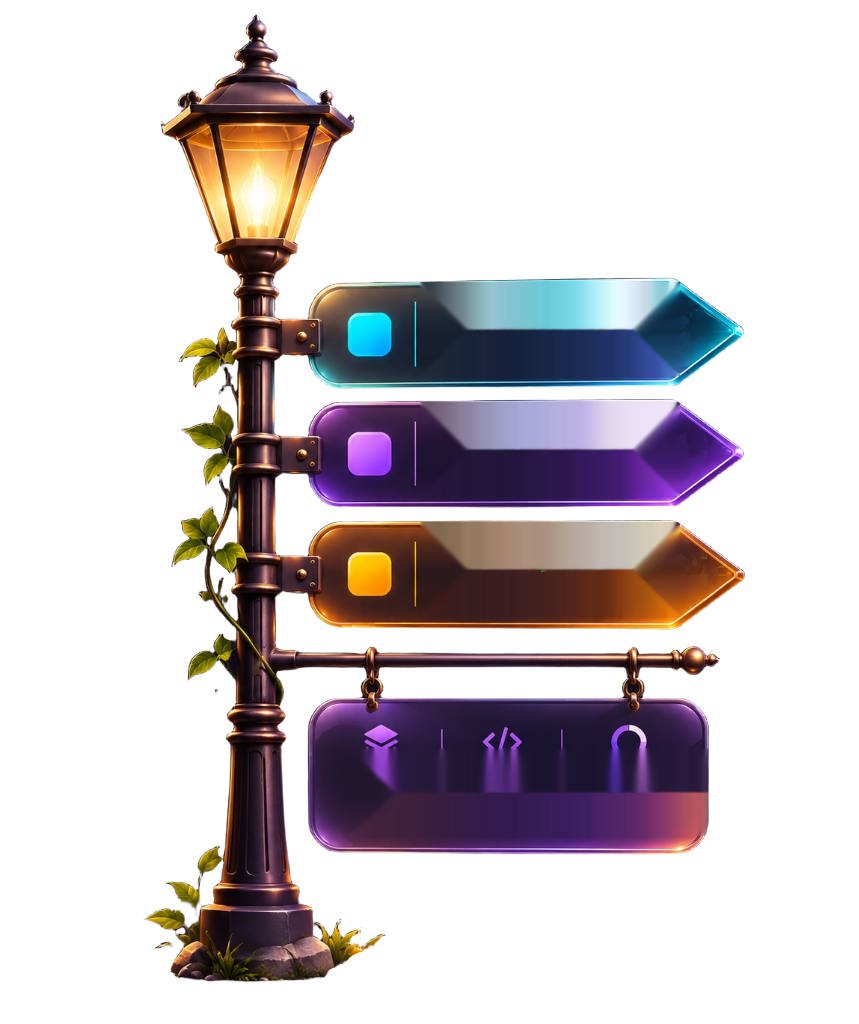
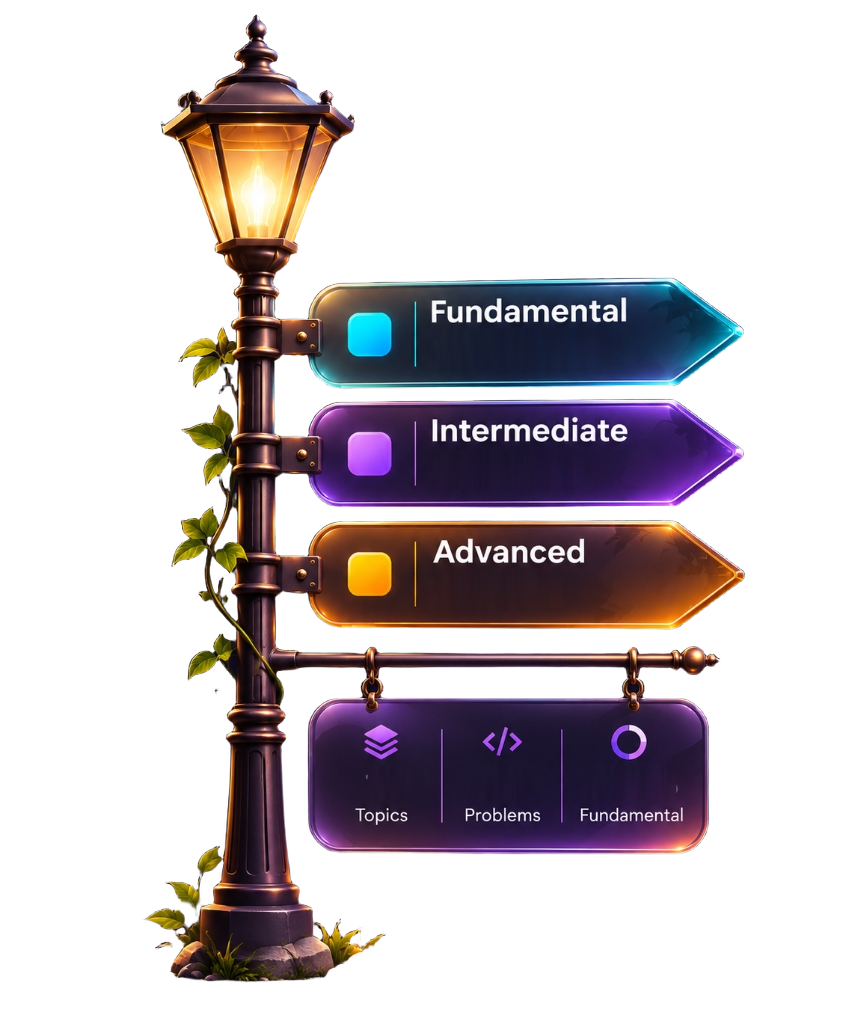
fix(leetcode): eliminate inpaint smudges and text doubling with lossless clean lamp post and precise number overlays

Changed region(s): [[0.4843, 0.25, 0.787, 0.5938], [0.4237, 0.7188, 0.8475, 0.8125]]

diff --git a/src/components/topic-breakdown.tsx b/src/components/topic-breakdown.tsx
@@ -884,116 +884,100 @@ export function TopicBreakdown({ topics: propTopics = [] }: TopicBreakdownProps)
             {/* =================================================================== */}
             {/* INTERACTIVE SIGNPOST ARROWS (Fundamental, Intermediate, Advanced)    */}
             {/* =================================================================== */}
-            {/* Arrow 1: Fundamental */}
-            <div
+            {/* Arrow 1: Fundamental Click Area */}
+            <button
+              type="button"
               onClick={() => handlePillClick("fundamental")}
               title="Filter by Fundamental topics"
-              className={`absolute left-[36%] top-[27.3%] w-[52%] h-[10.2%] rounded-2xl cursor-pointer transition-all duration-200 hover:brightness-125 z-20 ${
+              aria-label="Filter by Fundamental topics"
+              className={`absolute left-[36%] top-[27.3%] w-[52%] h-[10.2%] rounded-2xl cursor-pointer transition-all duration-200 hover:brightness-125 z-20 bg-transparent border-0 outline-none ${
                 activeFilter === "fundamental"
                   ? "ring-2 ring-cyan-400 shadow-[0_0_20px_rgba(34,211,238,0.6)]"
                   : ""
               }`}
-            >
-              {!isMockupStats && (
-                <div className="absolute left-[26%] top-0 bottom-0 flex flex-col justify-center select-none pointer-events-none">
-                  <div className="text-[13px] sm:text-[14px] font-bold text-white tracking-tight leading-tight drop-shadow-[0_1px_3px_rgba(0,0,0,0.9)]">
-                    Fundamental
-                  </div>
-                  <div className="text-[12px] sm:text-[13px] font-bold text-white leading-tight mt-0.5 flex items-center gap-1 drop-shadow-[0_1px_3px_rgba(0,0,0,0.9)]">
-                    <span>{stats.fundamentalCount}</span>
-                    <span className="text-cyan-400 font-semibold drop-shadow-[0_0_8px_rgba(34,211,238,0.8)]">
-                      ({stats.fundamentalPct}%)
-                    </span>
-                  </div>
-                </div>
-              )}
-            </div>
+            />
 
-            {/* Arrow 2: Intermediate */}
-            <div
+            {/* Arrow 2: Intermediate Click Area */}
+            <button
+              type="button"
               onClick={() => handlePillClick("intermediate")}
               title="Filter by Intermediate topics"
-              className={`absolute left-[36%] top-[39.0%] w-[52%] h-[10.2%] rounded-2xl cursor-pointer transition-all duration-200 hover:brightness-125 z-20 ${
+              aria-label="Filter by Intermediate topics"
+              className={`absolute left-[36%] top-[39.0%] w-[52%] h-[10.2%] rounded-2xl cursor-pointer transition-all duration-200 hover:brightness-125 z-20 bg-transparent border-0 outline-none ${
                 activeFilter === "intermediate"
                   ? "ring-2 ring-purple-400 shadow-[0_0_20px_rgba(192,132,252,0.6)]"
                   : ""
               }`}
-            >
-              {!isMockupStats && (
-                <div className="absolute left-[26%] top-0 bottom-0 flex flex-col justify-center select-none pointer-events-none">
-                  <div className="text-[13px] sm:text-[14px] font-bold text-white tracking-tight leading-tight drop-shadow-[0_1px_3px_rgba(0,0,0,0.9)]">
-                    Intermediate
-                  </div>
-                  <div className="text-[12px] sm:text-[13px] font-bold text-white leading-tight mt-0.5 flex items-center gap-1 drop-shadow-[0_1px_3px_rgba(0,0,0,0.9)]">
-                    <span>{stats.intermediateCount}</span>
-                    <span className="text-purple-400 font-semibold drop-shadow-[0_0_8px_rgba(192,132,252,0.8)]">
-                      ({stats.intermediatePct}%)
-                    </span>
-                  </div>
-                </div>
-              )}
-            </div>
+            />
 
-            {/* Arrow 3: Advanced */}
-            <div
+            {/* Arrow 3: Advanced Click Area */}
+            <button
+              type="button"
               onClick={() => handlePillClick("advanced")}
               title="Filter by Advanced topics"
-              className={`absolute left-[36%] top-[51.0%] w-[52%] h-[10.2%] rounded-2xl cursor-pointer transition-all duration-200 hover:brightness-125 z-20 ${
+              aria-label="Filter by Advanced topics"
+              className={`absolute left-[36%] top-[51.0%] w-[52%] h-[10.2%] rounded-2xl cursor-pointer transition-all duration-200 hover:brightness-125 z-20 bg-transparent border-0 outline-none ${
                 activeFilter === "advanced"
                   ? "ring-2 ring-amber-400 shadow-[0_0_20px_rgba(251,191,36,0.6)]"
                   : ""
               }`}
-            >
-              {!isMockupStats && (
-                <div className="absolute left-[26%] top-0 bottom-0 flex flex-col justify-center select-none pointer-events-none">
-                  <div className="text-[13px] sm:text-[14px] font-bold text-white tracking-tight leading-tight drop-shadow-[0_1px_3px_rgba(0,0,0,0.9)]">
-                    Advanced
-                  </div>
-                  <div className="text-[12px] sm:text-[13px] font-bold text-white leading-tight mt-0.5 flex items-center gap-1 drop-shadow-[0_1px_3px_rgba(0,0,0,0.9)]">
-                    <span>{stats.advancedCount}</span>
-                    <span className="text-amber-400 font-semibold drop-shadow-[0_0_8px_rgba(251,191,36,0.8)]">
-                      ({stats.advancedPct}%)
-                    </span>
-                  </div>
-                </div>
-              )}
-            </div>
+            />
 
-            {/* =================================================================== */}
-            {/* HANGING GLASS PLAQUE (3 Stats: Topics, Problems, Fundamental %)     */}
-            {/* =================================================================== */}
+            {/* Dynamic Real-Time Statistics Overlays (Displayed cleanly over clean number strips) */}
             {!isMockupStats && (
-              <div className="absolute left-[36.1%] top-[66.9%] w-[53.5%] h-[15.6%] flex items-center justify-around pointer-events-none z-20">
-                {/* Col 1: Topics */}
-                <div className="flex-1 flex flex-col items-center justify-center pt-5">
-                  <div className="text-[14px] font-black text-white font-mono leading-none drop-shadow-[0_1px_3px_rgba(0,0,0,0.9)]">
-                    {stats.totalTopicsCount}
-                  </div>
-                  <div className="text-[10px] font-semibold text-slate-300 leading-tight mt-1">
-                    Topics
-                  </div>
+              <>
+                {/* Arrow 1 Numbers: Count + Percentage */}
+                <div className="absolute left-[51.0%] top-[33.2%] flex items-baseline gap-1 select-none pointer-events-none z-20">
+                  <span className="text-[12px] sm:text-[13px] md:text-[14px] font-bold text-white leading-none drop-shadow-[0_1px_3px_rgba(0,0,0,0.9)]">
+                    {stats.fundamentalCount}
+                  </span>
+                  <span className="text-[11px] sm:text-[12px] md:text-[13px] font-semibold text-cyan-400 leading-none drop-shadow-[0_0_8px_rgba(34,211,238,0.8)]">
+                    ({stats.fundamentalPct}%)
+                  </span>
                 </div>
 
-                {/* Col 2: Problems */}
-                <div className="flex-1 flex flex-col items-center justify-center pt-5">
-                  <div className="text-[14px] font-black text-white font-mono leading-none drop-shadow-[0_1px_3px_rgba(0,0,0,0.9)]">
+                {/* Arrow 2 Numbers: Count + Percentage */}
+                <div className="absolute left-[51.0%] top-[45.0%] flex items-baseline gap-1 select-none pointer-events-none z-20">
+                  <span className="text-[12px] sm:text-[13px] md:text-[14px] font-bold text-white leading-none drop-shadow-[0_1px_3px_rgba(0,0,0,0.9)]">
+                    {stats.intermediateCount}
+                  </span>
+                  <span className="text-[11px] sm:text-[12px] md:text-[13px] font-semibold text-purple-400 leading-none drop-shadow-[0_0_8px_rgba(192,132,252,0.8)]">
+                    ({stats.intermediatePct}%)
+                  </span>
+                </div>
+
+                {/* Arrow 3 Numbers: Count + Percentage */}
+                <div className="absolute left-[51.0%] top-[56.8%] flex items-baseline gap-1 select-none pointer-events-none z-20">
+                  <span className="text-[12px] sm:text-[13px] md:text-[14px] font-bold text-white leading-none drop-shadow-[0_1px_3px_rgba(0,0,0,0.9)]">
+                    {stats.advancedCount}
+                  </span>
+                  <span className="text-[11px] sm:text-[12px] md:text-[13px] font-semibold text-amber-400 leading-none drop-shadow-[0_0_8px_rgba(251,191,36,0.8)]">
+                    ({stats.advancedPct}%)
+                  </span>
+                </div>
+
+                {/* Hanging Plaque: 3 Stats Numbers (Centered in their respective columns) */}
+                {/* Col 1: Topics count */}
+                <div className="absolute left-[44.35%] top-[75.4%] -translate-x-1/2 select-none pointer-events-none z-20">
+                  <span className="text-[12px] sm:text-[13px] md:text-[14px] font-black text-white font-mono leading-none drop-shadow-[0_1px_3px_rgba(0,0,0,0.9)]">
+                    {stats.totalTopicsCount}
+                  </span>
+                </div>
+
+                {/* Col 2: Problems count */}
+                <div className="absolute left-[58.38%] top-[75.4%] -translate-x-1/2 select-none pointer-events-none z-20">
+                  <span className="text-[12px] sm:text-[13px] md:text-[14px] font-black text-white font-mono leading-none drop-shadow-[0_1px_3px_rgba(0,0,0,0.9)]">
                     {stats.totalProblems}
-                  </div>
-                  <div className="text-[10px] font-semibold text-slate-300 leading-tight mt-1">
-                    Problems
-                  </div>
+                  </span>
                 </div>
 
                 {/* Col 3: Fundamental % */}
-                <div className="flex-1 flex flex-col items-center justify-center pt-5">
-                  <div className="text-[14px] font-black text-white font-mono leading-none drop-shadow-[0_1px_3px_rgba(0,0,0,0.9)]">
+                <div className="absolute left-[73.34%] top-[75.4%] -translate-x-1/2 select-none pointer-events-none z-20">
+                  <span className="text-[12px] sm:text-[13px] md:text-[14px] font-black text-white font-mono leading-none drop-shadow-[0_1px_3px_rgba(0,0,0,0.9)]">
                     {stats.fundamentalPct}%
-                  </div>
-                  <div className="text-[10px] font-semibold text-slate-300 leading-tight mt-1">
-                    Fundamental
-                  </div>
+                  </span>
                 </div>
-              </div>
+              </>
             )}
           </div>
         </div>
